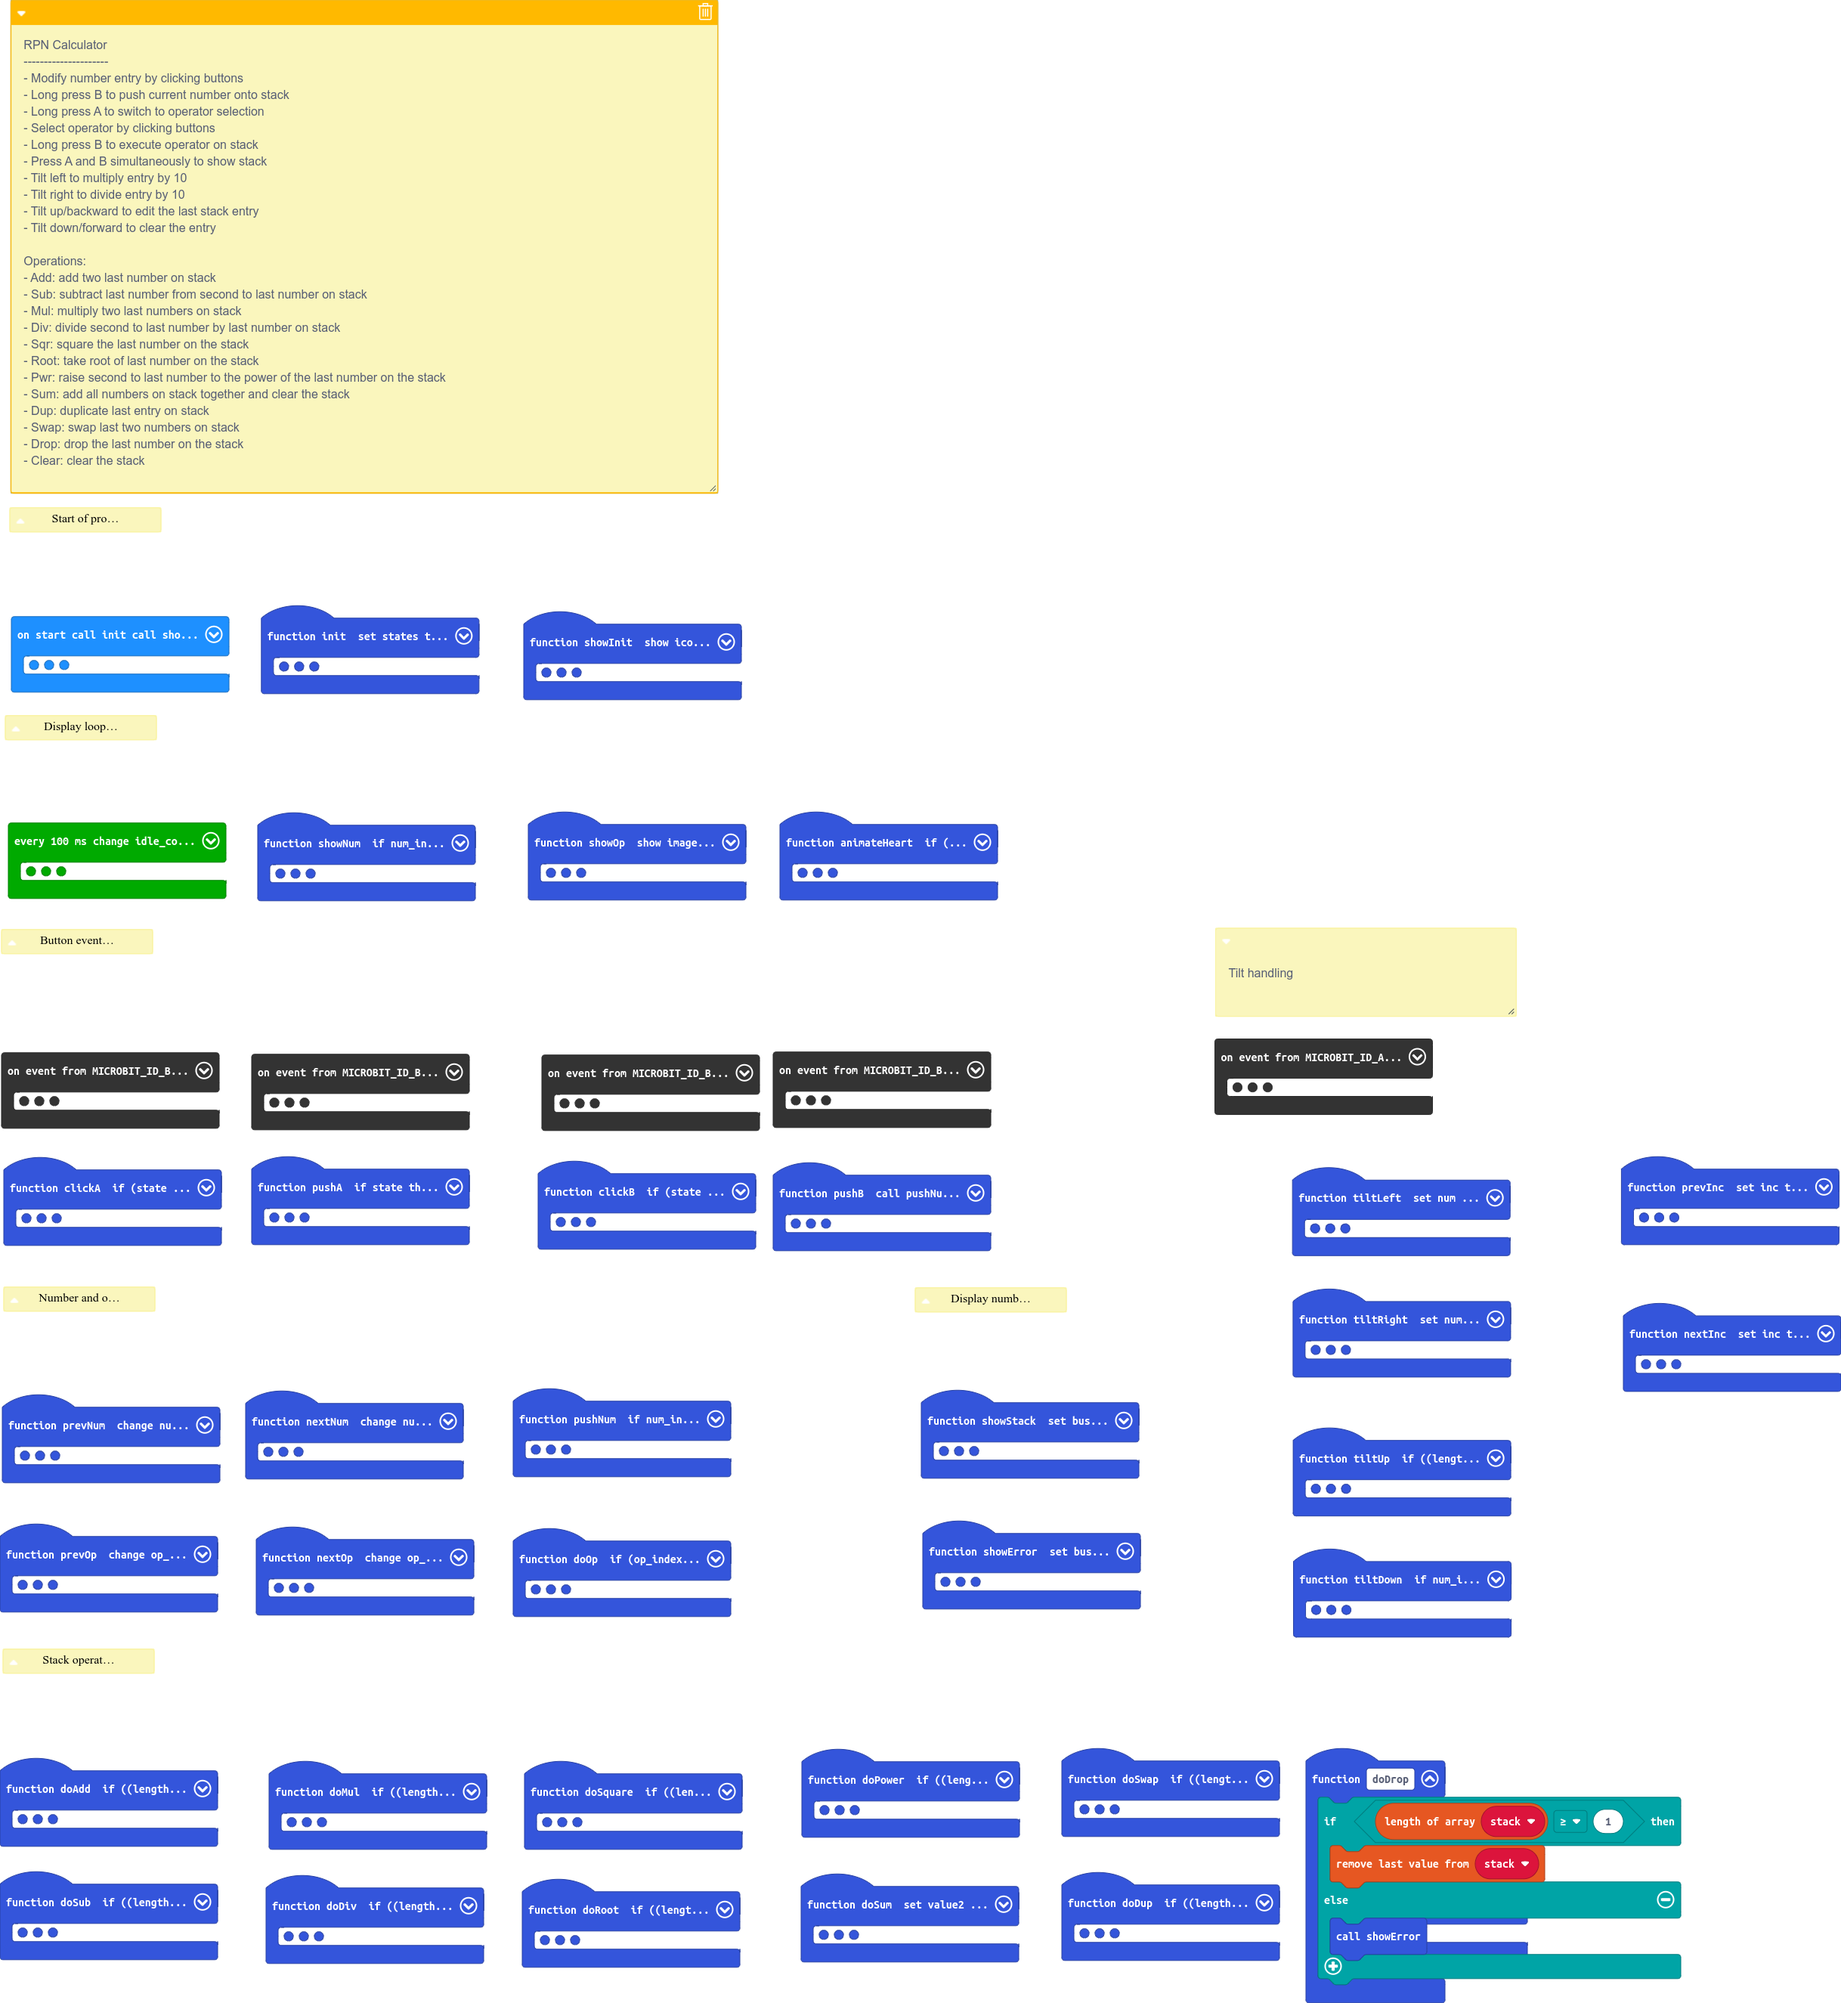
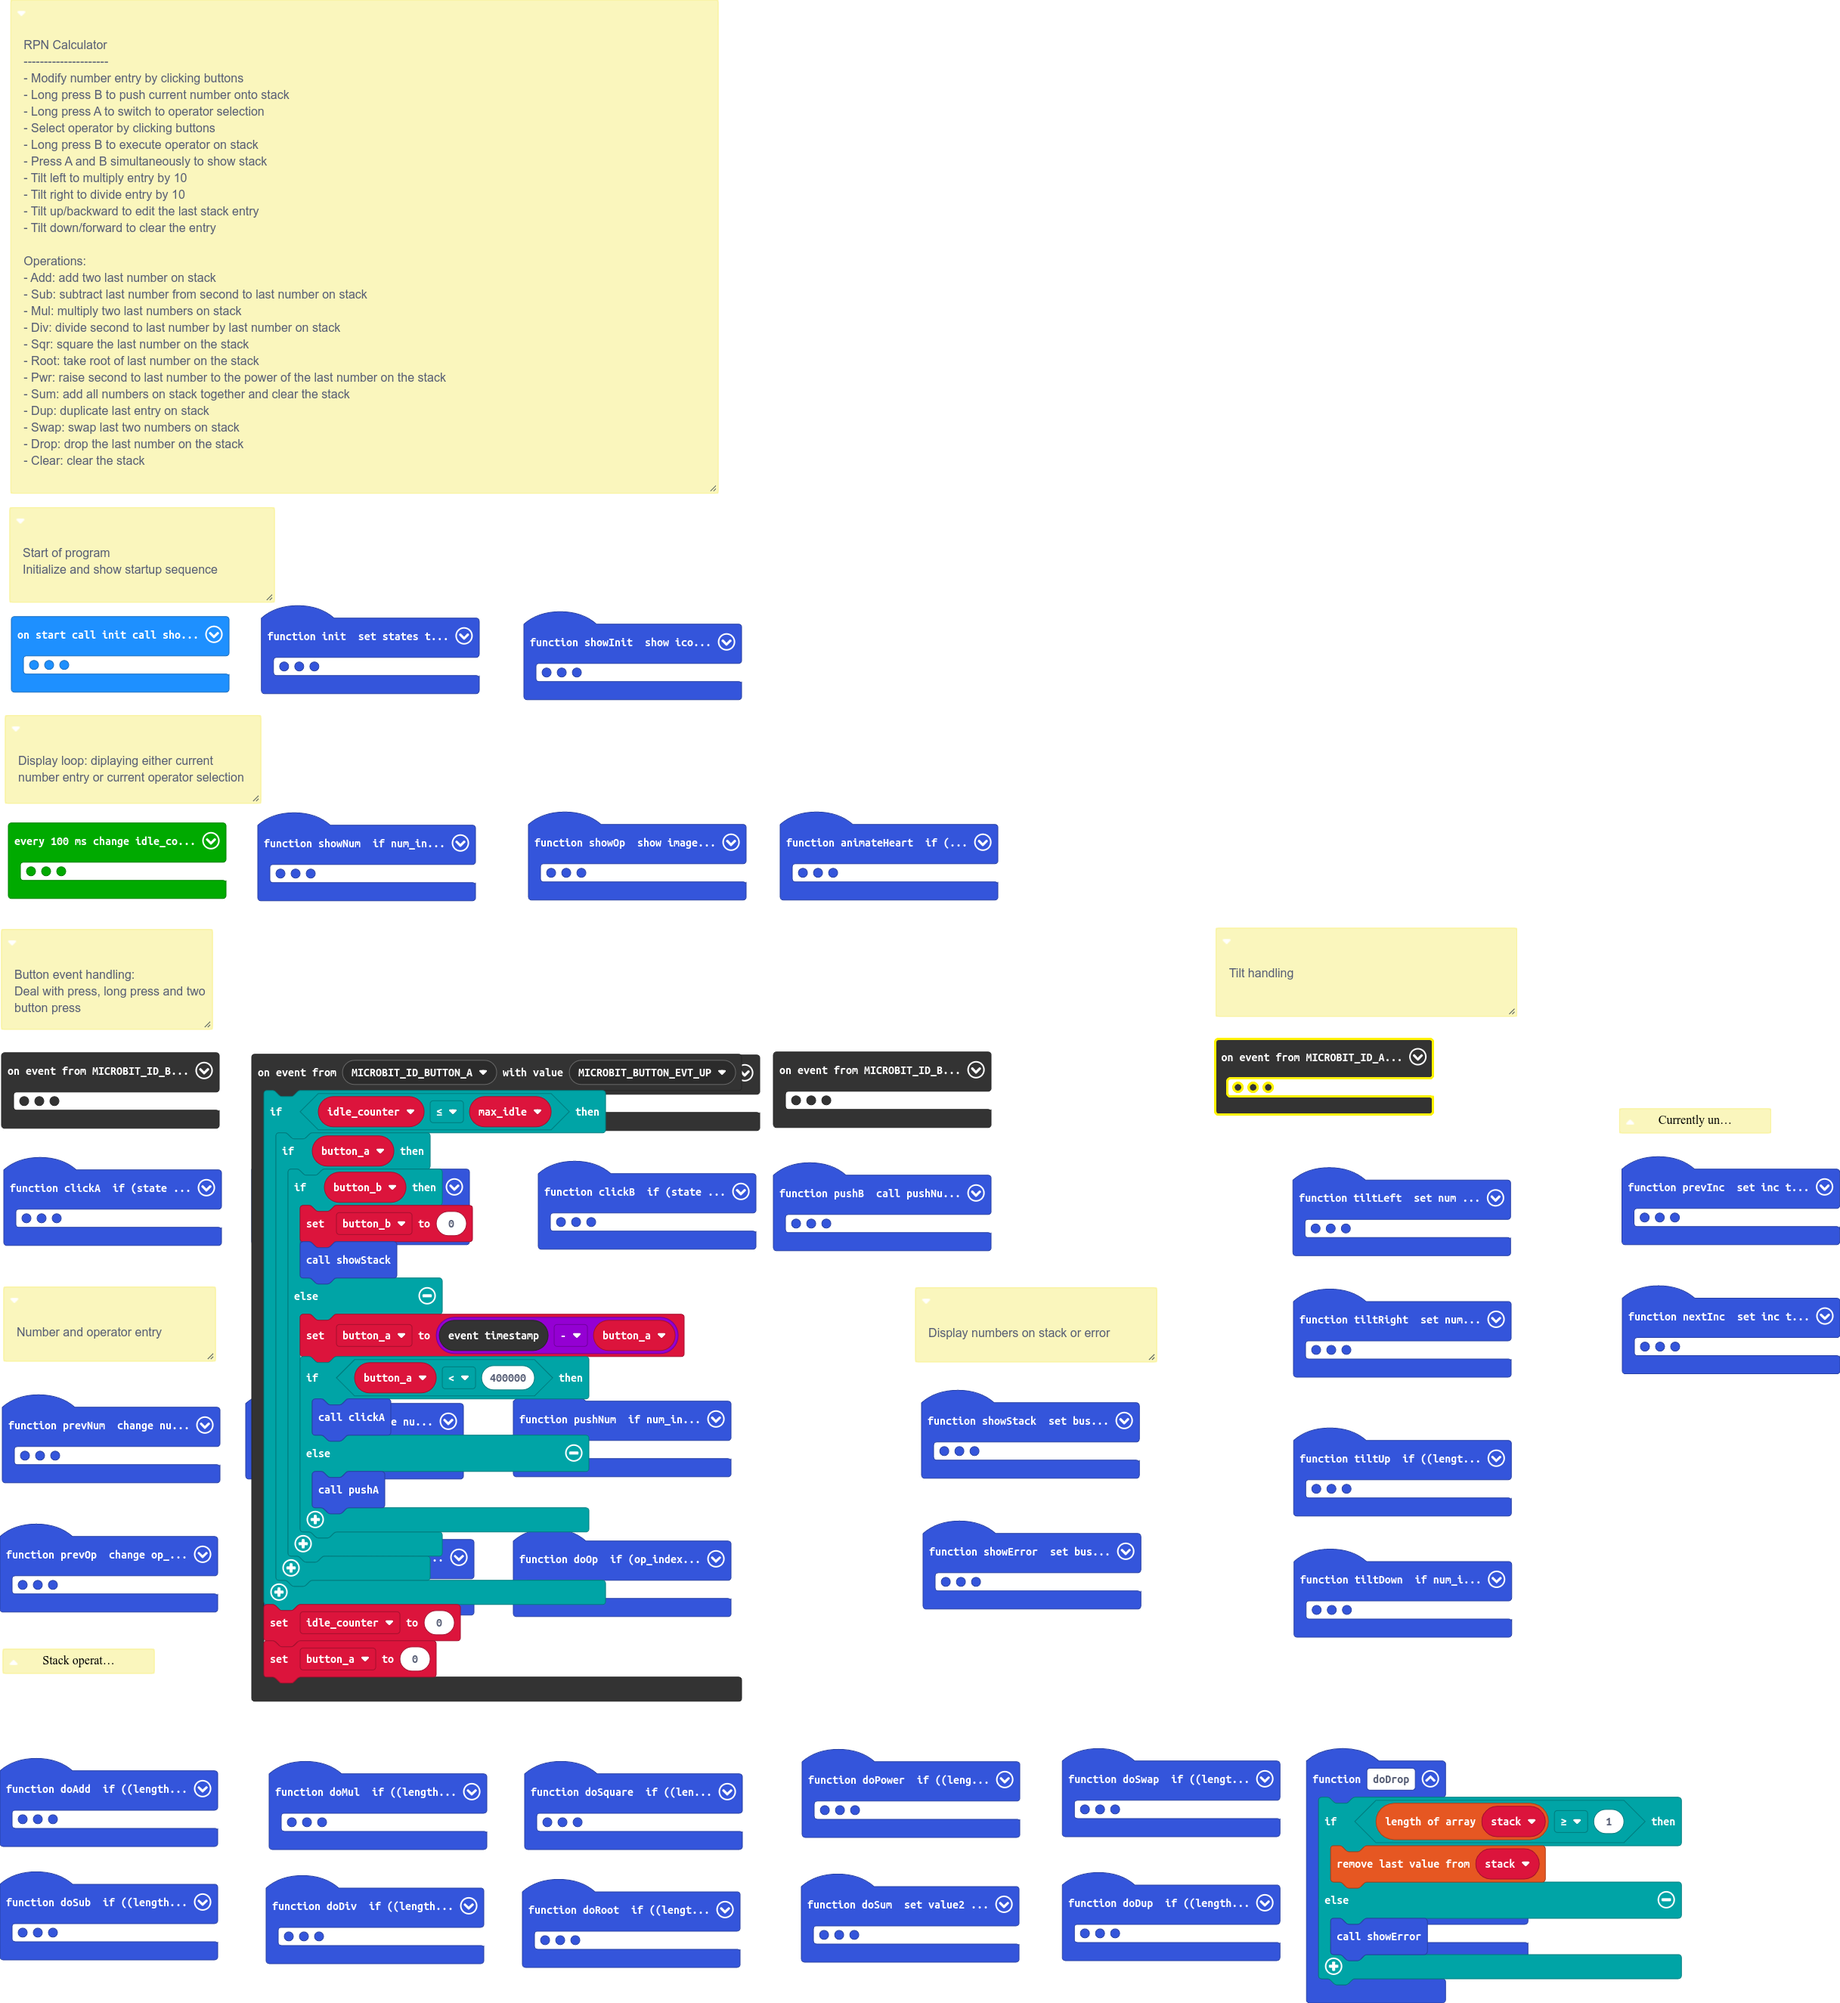
Make tilting wake up from idle

diff --git a/main.ts b/main.ts
@@ -73,6 +73,25 @@ function doDrop () {
         showError()
     }
 }
+control.onEvent(EventBusSource.MICROBIT_ID_BUTTON_A, EventBusValue.MICROBIT_BUTTON_EVT_UP, function () {
+    if (idle_counter <= max_idle) {
+        if (button_a) {
+            if (button_b) {
+                button_b = 0
+                showStack()
+            } else {
+                button_a = control.eventTimestamp() - button_a
+                if (button_a < 400000) {
+                    clickA()
+                } else {
+                    pushA()
+                }
+            }
+        }
+    }
+    idle_counter = 0
+    button_a = 0
+})
 function showOp () {
     ops[op_index].showImage(0)
 }
@@ -180,25 +199,6 @@ function nextInc () {
 function tiltLeft () {
     num = num * 10
 }
-control.onEvent(EventBusSource.MICROBIT_ID_BUTTON_A, EventBusValue.MICROBIT_BUTTON_EVT_UP, function () {
-    if (idle_counter <= max_idle) {
-        if (button_a) {
-            if (button_b) {
-                button_b = 0
-                showStack()
-            } else {
-                button_a = control.eventTimestamp() - button_a
-                if (button_a < 400000) {
-                    clickA()
-                } else {
-                    pushA()
-                }
-            }
-        }
-    }
-    idle_counter = 0
-    button_a = 0
-})
 function pushA () {
     if (state) {
         state = 0
@@ -441,6 +441,9 @@ function pushNum () {
         num_init = false
     }
 }
+/**
+ * Currently unused increment modifier
+ */
 function prevInc () {
     inc = Math.constrain(inc - 1, -1, 1)
 }
@@ -471,22 +474,34 @@ control.onEvent(EventBusSource.MICROBIT_ID_ACCELEROMETER, EventBusValue.MICROBIT
     ay = input.acceleration(Dimension.Y)
     az = input.acceleration(Dimension.Z)
     if (tilted) {
-        if (az < -950) {
+        if (az < -800) {
             tilted = false
         }
     } else {
         if (ax < -950) {
-            tiltLeft()
+            if (idle_counter <= max_idle) {
+                tiltLeft()
+            }
             tilted = true
+            idle_counter = 0
         } else if (ax > 950) {
-            tiltRight()
+            if (idle_counter <= max_idle) {
+                tiltRight()
+            }
             tilted = true
+            idle_counter = 0
         } else if (ay > 950) {
-            tiltUp()
+            if (idle_counter <= max_idle) {
+                tiltUp()
+            }
             tilted = true
+            idle_counter = 0
         } else if (ay < -950) {
-            tiltDown()
+            if (idle_counter <= max_idle) {
+                tiltDown()
+            }
             tilted = true
+            idle_counter = 0
         }
     }
 })
@@ -521,10 +536,6 @@ let dot: Image = null
 let tilted = false
 let led_state = 0
 let states = 0
-let button_b = 0
-let button_a = 0
-let max_idle = 0
-let idle_counter = 0
 let inc = 0
 let num = 0
 let num_init = false
@@ -533,6 +544,10 @@ let value2 = 0
 let value1 = 0
 let op_index = 0
 let ops: Image[] = []
+let button_b = 0
+let button_a = 0
+let max_idle = 0
+let idle_counter = 0
 let stack: number[] = []
 init()
 showInit()
